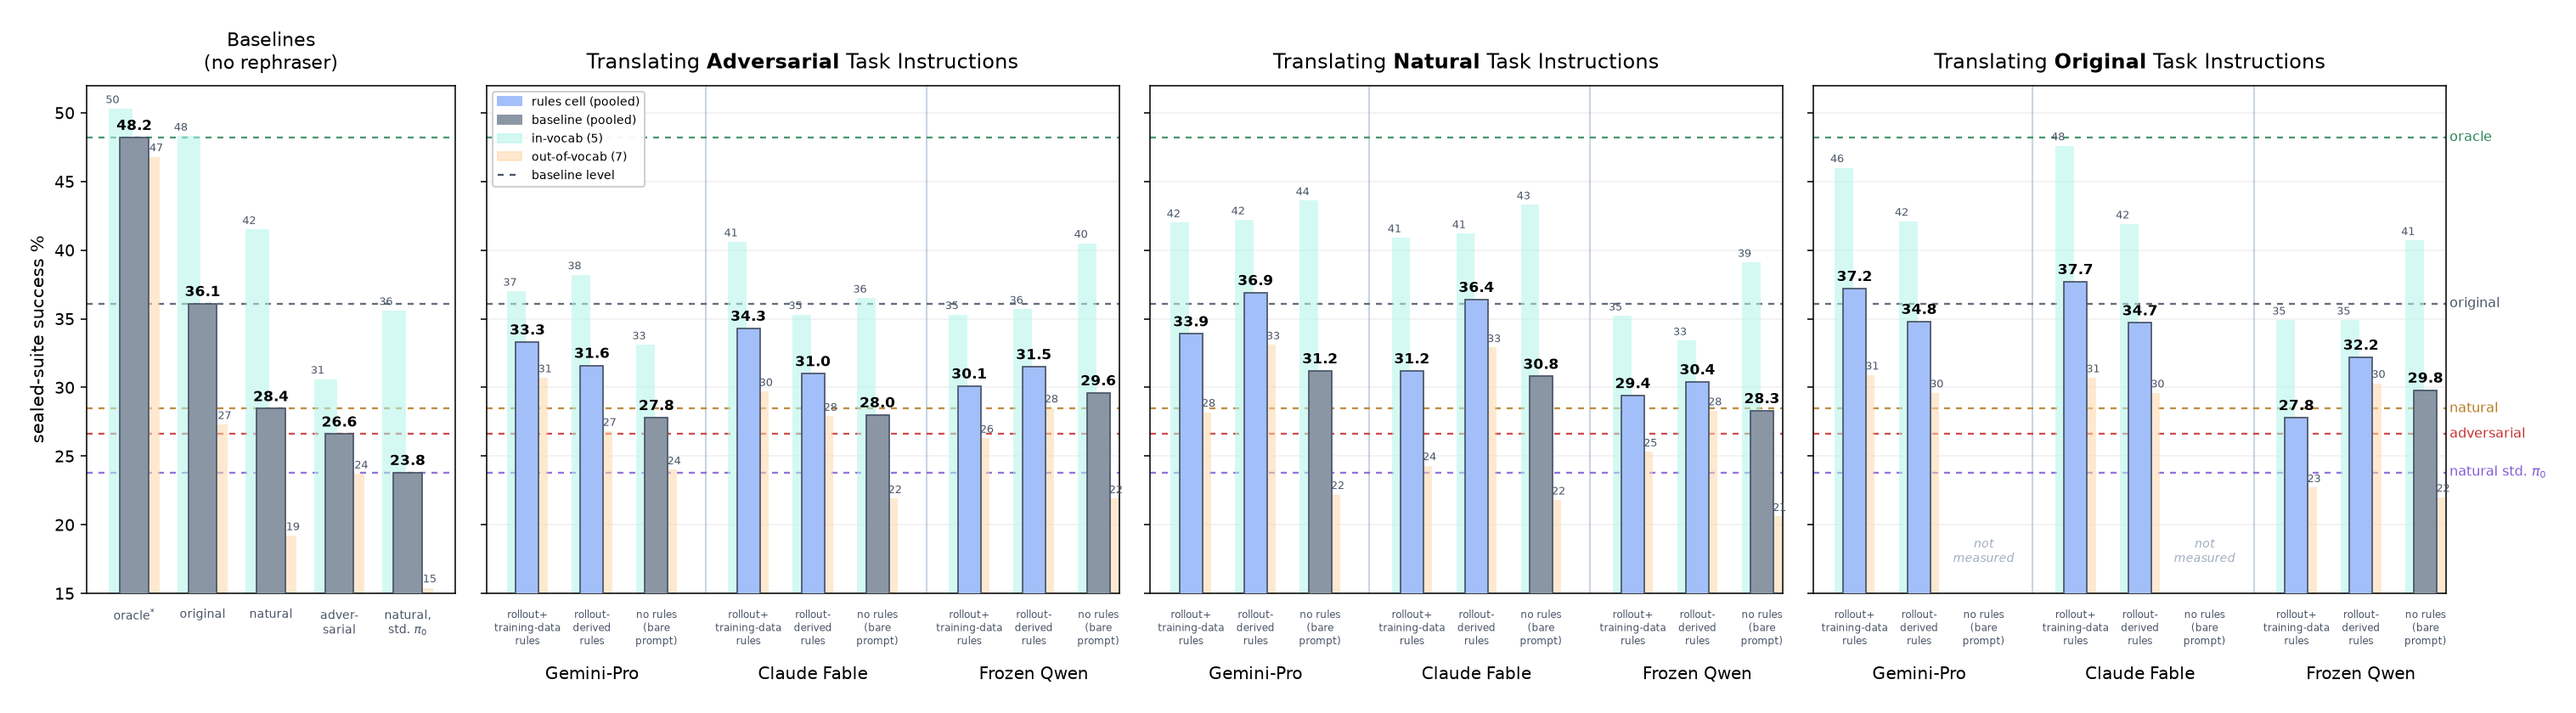
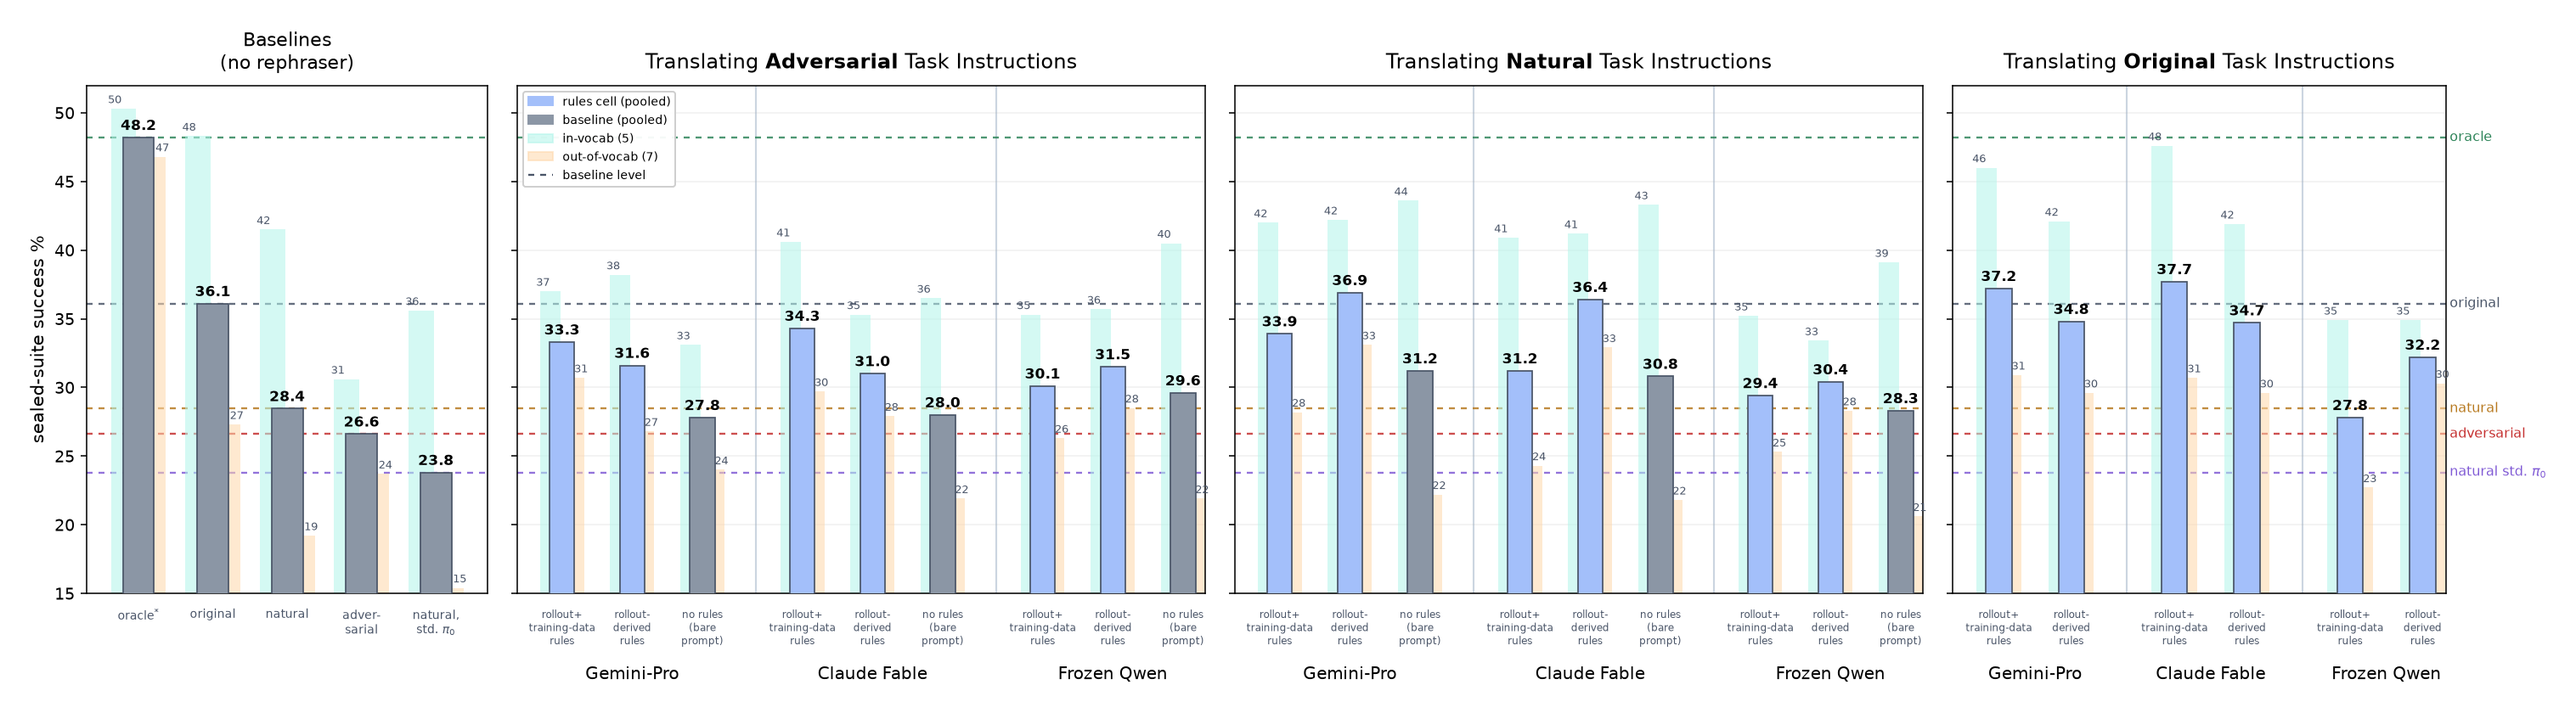
results figure: drop the bare-prompt column from the Original panel entirely (incl. Qwen's measured cell) and narrow that panel to keep bar density

diff --git a/scripts/make_results_translating.py b/scripts/make_results_translating.py
@@ -44,7 +44,7 @@ C_IV, C_OOV = "#b2f5ea", "#fed7aa"
 YMIN, YMAX = 15, 52     # floor set by the std-pi0 natural OOV stratum (15.4)
 
 fig, axes = plt.subplots(1, 4, figsize=(21.8, 5.8), sharey=True,
-                         gridspec_kw={"width_ratios": [1.75, 3, 3, 3]})
+                         gridspec_kw={"width_ratios": [1.75, 3, 3, 2.15]})
 
 
 def triplet(ax, x, p, iv, oo, pooled_color):
@@ -76,14 +76,13 @@ for ax, cond in zip(axes[1:], ["Adversarial", "Natural", "Original"]):
     ticks, tlabels = [], []
     for mi, model in enumerate(MODELS):
         cxs = []
-        for ri, cell in enumerate(DATA[cond][model]):
-            if cell is None:
-                ax.text(x, YMIN + 2.0, "not\nmeasured", ha="center", va="bottom",
-                        fontsize=7.0, color="#a0aec0", style="italic")
-            else:
-                p, iv, oo = cell
-                color = C_BASEBAR if ri == 2 else C_RULES   # bare prompt = baseline grey
-                triplet(ax, x, p, iv, oo, color)
+        cells = DATA[cond][model]
+        if cond == "Original":
+            cells = cells[:2]          # bare-prompt column dropped for Originals
+        for ri, cell in enumerate(cells):
+            p, iv, oo = cell
+            color = C_BASEBAR if ri == 2 else C_RULES       # bare prompt = baseline grey
+            triplet(ax, x, p, iv, oo, color)
             ax.text(x, YMIN - 1.1, ROLES[ri], ha="center", va="top", fontsize=6.4,
                     color="#4a5568")
             cxs.append(x)
